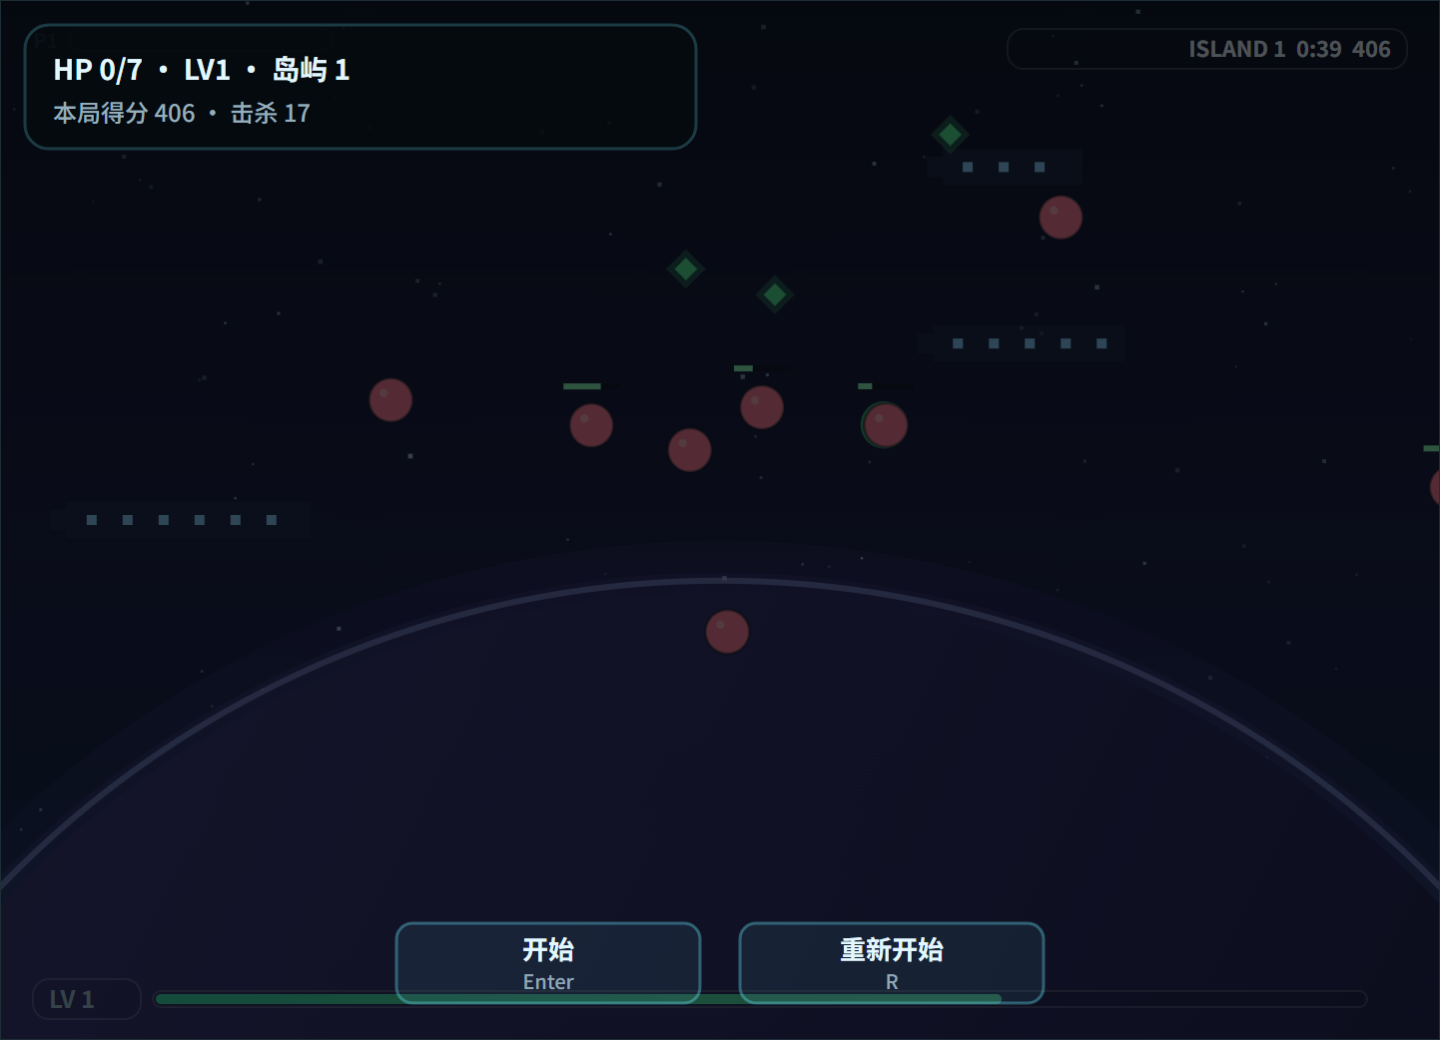
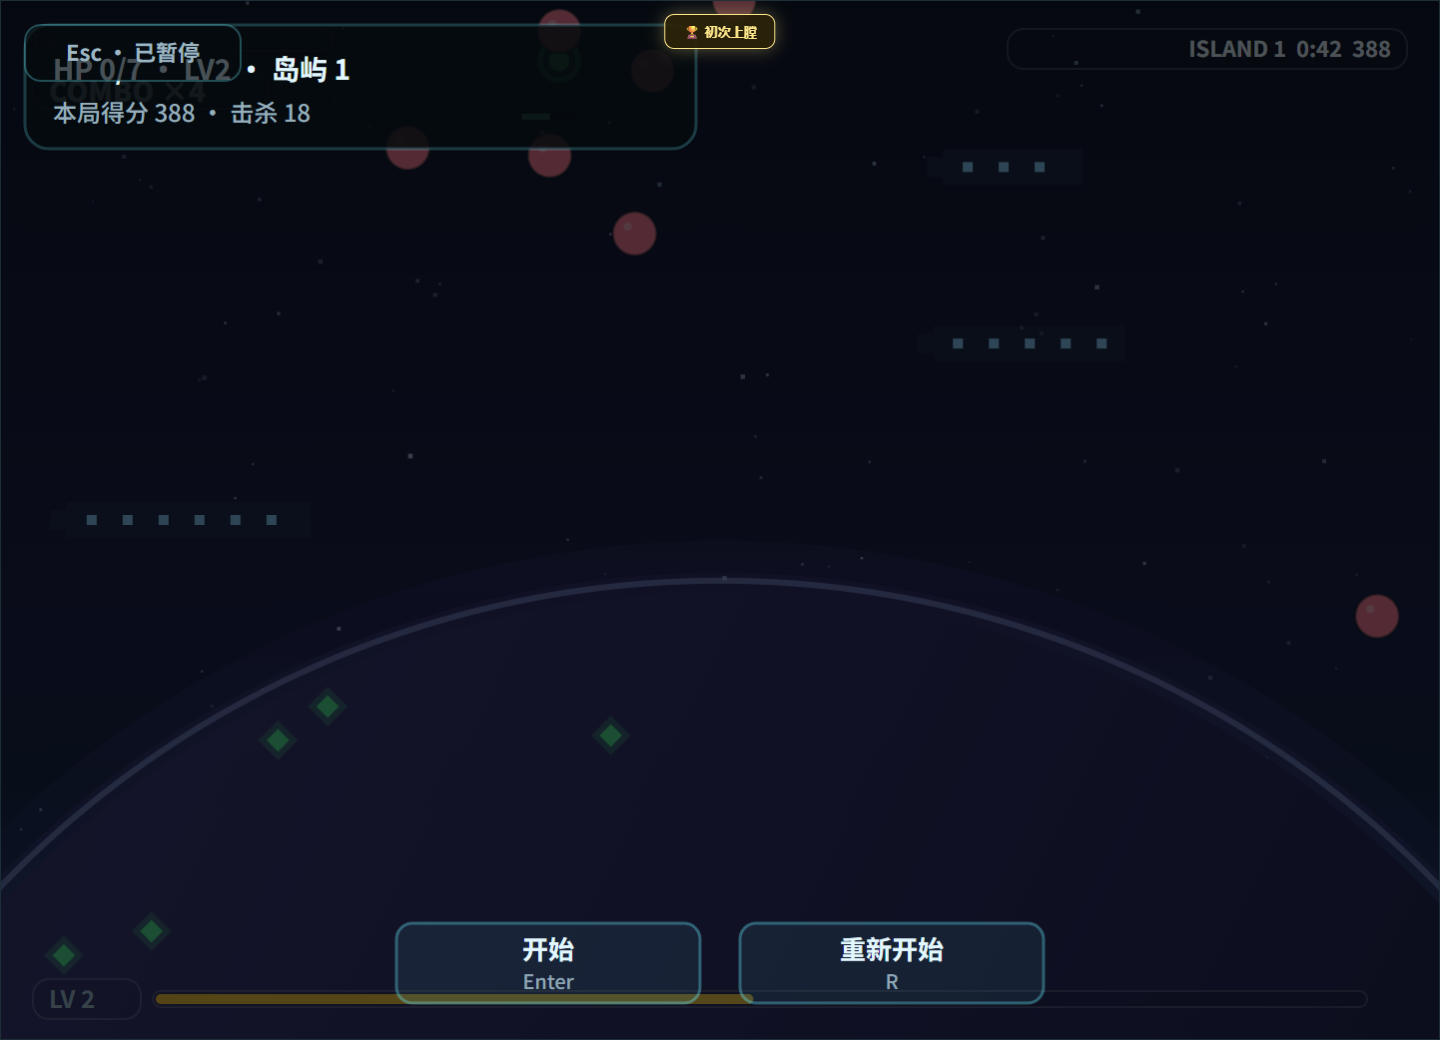
[PRD-0002] fix: R219.9 增补——单人局固定视口(相机钉死画面零滚动),2P+ 保留跟镜头
用户在背景静止后仍感知移动卡顿——根因为 R218 U11 大世界跟镜头的世界滚动
(1P 移动时摄像机拖行,世界实体反向滑动,帧步进在深色背景上读作卡顿)。

修复:1P(players.length<2)固定视口——初始态与 deployPlayers(1) 玩家/相机
钉在 vp 中心;tickSurvival 单人分支相机恒 (vp.w/2,vp.h/2) zoom=1,不
updateCamera/不软推;玩家移动钳视口界;deployPlayers(≥2) 整体迁世界中心
分侧+相机对准世界中心(免开局漂移)。2-4P 合作保留跟镜头+zoom-to-fit。

门禁:typecheck 双绿;全量 154 files/1477 用例 0 失败(初始位置测试锁更新
至新不变量,+1P 固定/2P 跟随两用例);ui:snapshot 重立 9/9 GATE PASS;
CDP:移动 275px 全程 cameraFixed=true+飞船在画+背景双帧一致——1P 零滚动。

diff --git a/src/renderer/src/games/survival.ts b/src/renderer/src/games/survival.ts
@@ -620,7 +620,9 @@ export function initialSurvivalState(
   if (has('glass')) maxHp = 1
   // R213: 先构造 player/keys 再装配 state——players[0]/inputs[0] 与
   // player/keys 字段从出生起就是同一对象引用(别名不变量由构造保证)。
-  const player: PlayerState = { x: WORLD_W / 2, y: WORLD_H / 2, vx: 0, vy: 0, size: 11, hp: maxHp, maxHp, invuln: 0, fireTimer: 0, angle: -Math.PI / 2, hitFlash: 0 }
+  // R219.9: 初始态=1P 固定视口——玩家与相机都在 vp 中心(单人画面零滚动);
+  // 2P+ 部署时由 deployPlayers 迁至世界中心。
+  const player: PlayerState = { x: WIDTH / 2, y: HEIGHT / 2, vx: 0, vy: 0, size: 11, hp: maxHp, maxHp, invuln: 0, fireTimer: 0, angle: -Math.PI / 2, hitFlash: 0 }
   const keys = new Set<string>()
   const state: SurvivalState = {
     phase: 'ready',
@@ -653,7 +655,7 @@ export function initialSurvivalState(
     texts: [],
     ripples: [],
     bgOffset: { x: 0, y: 0 },
-    camera: { x: WORLD_W / 2, y: WORLD_H / 2, zoom: 1 },
+    camera: { x: WIDTH / 2, y: HEIGHT / 2, zoom: 1 },
     juice: emptyJuice(),
     banner: null,
     island: 1,
@@ -728,6 +730,28 @@ function syncRoster(state: SurvivalState): void {
  *  共享 build(升级/轮盘对全员同时生效),仅实体与输入独立。 */
 export function deployPlayers(state: SurvivalState, count: 1 | 2 | 3 | 4): void {
   syncRoster(state)
+  // R219.9: 单人局固定视口——站位基准=vp 中心(相机钉死处);2P+ =世界中心
+  // 分侧站位(初始态在 vp 中心,多人部署须整体迁至世界中心,含相机免开局漂移)。
+  if (count < 2) {
+    for (let i = 0; i < state.players.length; i++) {
+      const off = DEPLOY_OFFSETS[i]
+      state.players[i].x = state.vp.w / 2 + off.dx
+      state.players[i].y = state.vp.h / 2 + off.dy
+    }
+    // 相机一并钉死——否则首帧生成环仍按旧相机在视口角落外生成。
+    state.camera.x = state.vp.w / 2
+    state.camera.y = state.vp.h / 2
+    state.camera.zoom = 1
+  } else {
+    for (let i = 0; i < state.players.length; i++) {
+      const off = DEPLOY_OFFSETS[i]
+      state.players[i].x = WORLD_W / 2 + off.dx
+      state.players[i].y = WORLD_H / 2 + off.dy
+    }
+    state.camera.x = WORLD_W / 2
+    state.camera.y = WORLD_H / 2
+    state.camera.zoom = 1
+  }
   for (let i = state.players.length; i < count; i++) {
     const off = DEPLOY_OFFSETS[i]
     state.players.push({
@@ -1253,6 +1277,11 @@ export function tickSurvival(state: SurvivalState, dt: number): void {
   player.invuln = Math.max(0, player.invuln - dt)
   player.hitFlash = Math.max(0, player.hitFlash - dt)
 
+  // R219.9: 单人局固定视口——玩家钳视口界(相机钉死,画面零滚动);2P+ 大世界界。
+  const fixedViewport = state.players.length < 2
+  const boundMaxX = (fixedViewport ? state.vp.w : WORLD_W) - 16
+  const boundMaxY = (fixedViewport ? state.vp.h : WORLD_H) - 16
+
   const dx = (key(state, 'arrowright') || key(state, 'd') ? 1 : 0) - (key(state, 'arrowleft') || key(state, 'a') ? 1 : 0)
   const dy = (key(state, 'arrowdown') || key(state, 's') ? 1 : 0) - (key(state, 'arrowup') || key(state, 'w') ? 1 : 0)
   let moveX = dx
@@ -1265,8 +1294,8 @@ export function tickSurvival(state: SurvivalState, dt: number): void {
   const moveLen = Math.hypot(moveX, moveY)
   const moveScale = Math.min(1, moveLen)
   if (moveLen > 0.0001) {
-    player.x = clamp(player.x + (moveX / moveLen) * moveScale * stats.moveSpeed * dt, 16, WORLD_W - 16)
-    player.y = clamp(player.y + (moveY / moveLen) * moveScale * stats.moveSpeed * dt, 16, WORLD_H - 16)
+    player.x = clamp(player.x + (moveX / moveLen) * moveScale * stats.moveSpeed * dt, 16, boundMaxX)
+    player.y = clamp(player.y + (moveY / moveLen) * moveScale * stats.moveSpeed * dt, 16, boundMaxY)
     player.angle = Math.atan2(moveY, moveX)
     if (Math.random() < dt * 40) state.particles.push({ x: player.x - Math.cos(player.angle) * 14, y: player.y - Math.sin(player.angle) * 14, vx: -Math.cos(player.angle) * 60, vy: -Math.sin(player.angle) * 60, life: 0.3, maxLife: 0.3, size: 2.5, color: '#67e8f9' })
   }
@@ -1346,8 +1375,8 @@ export function tickSurvival(state: SurvivalState, dt: number): void {
     const lenP = Math.hypot(movePx, movePy)
     const scaleP = Math.min(1, lenP)
     if (lenP > 0.0001) {
-      pl.x = clamp(pl.x + (movePx / lenP) * scaleP * stats.moveSpeed * dt, 16, WORLD_W - 16)
-      pl.y = clamp(pl.y + (movePy / lenP) * scaleP * stats.moveSpeed * dt, 16, WORLD_H - 16)
+      pl.x = clamp(pl.x + (movePx / lenP) * scaleP * stats.moveSpeed * dt, 16, boundMaxX)
+      pl.y = clamp(pl.y + (movePy / lenP) * scaleP * stats.moveSpeed * dt, 16, boundMaxY)
       pl.angle = Math.atan2(movePy, movePx)
       if (Math.random() < dt * 40) state.particles.push({ x: pl.x - Math.cos(pl.angle) * 14, y: pl.y - Math.sin(pl.angle) * 14, vx: -Math.cos(pl.angle) * 60, vy: -Math.sin(pl.angle) * 60, life: 0.3, maxLife: 0.3, size: 2.5, color: ROSTER_ACCENT[pi - 1] })
     }
@@ -1380,11 +1409,20 @@ export function tickSurvival(state: SurvivalState, dt: number): void {
   // zoom-to-fit 2-4P;玩家出屏软约束(向心 120px/s);背景 offset 由摄像机派生
   // (与 U10 质心视差合一:摄像机即平滑后的质心)。
   // R219.7①: 视口读 vp;③ 动态背景停用时 bgOffset 不再随摄像机漂移(恒 0)。
-  updateCamera(state.camera, playersBBox(state.players), state.vp.w, state.vp.h, dt)
-  for (const pl of alivePlayers(state)) {
-    const push = softPushForce(state.camera, state.vp.w, state.vp.h, pl)
-    pl.x += push.x * dt
-    pl.y += push.y * dt
+  // R219.9: 单人局固定视口——相机钉死 vp 中心、无软推(玩家已钳视口界):
+  // 移动时世界不滚动,消除跟镜头滚动在深色背景上的帧步进观感(用户三轮反馈);
+  // 2P+ 合作保留跟镜头+zoom-to-fit(多人同屏必需)。
+  if (fixedViewport) {
+    state.camera.x = state.vp.w / 2
+    state.camera.y = state.vp.h / 2
+    state.camera.zoom = 1
+  } else {
+    updateCamera(state.camera, playersBBox(state.players), state.vp.w, state.vp.h, dt)
+    for (const pl of alivePlayers(state)) {
+      const push = softPushForce(state.camera, state.vp.w, state.vp.h, pl)
+      pl.x += push.x * dt
+      pl.y += push.y * dt
+    }
   }
   if (DYNAMIC_BG_ENABLED) {
     state.bgOffset = smoothOffsetTo(state.bgOffset, {

diff --git a/tests/renderer/games/survival.test.ts b/tests/renderer/games/survival.test.ts
@@ -221,11 +221,13 @@ describe('FR-MP01 swarm local co-op', () => {
     state.player2!.invuln = 0
     state.player2!.fireTimer = 99
     const x0 = state.player2!.x
+    // R219.9: P1 基线在部署后取(初始态 P1 在 vp 中心,多人部署整体迁世界中心)
+    const p1x0 = state.player.x
     state.keys2.add('p2right')
     for (let i = 0; i < 30; i++) tickSurvival(state, 1 / 60)
     expect(state.player2!.x).toBeGreaterThan(x0 + 40)
     // P1 未按任何键,原地不动
-    expect(state.player.x).toBe(initialSurvivalState().player.x)
+    expect(state.player.x).toBe(p1x0)
   })
 
   it('P2 自动索敌开火(共享弹池)', () => {
@@ -811,21 +813,46 @@ describe('R218 U10 background offset (质心 → 归一化 → 平滑)', () => {
     expect(cur.y).toBeCloseTo(-1, 2)
   })
 
-  it('tick 集成(R219.7③ 动态背景停用): 玩家持续右移 → bgOffset 恒 0(不再随摄像机漂移);击杀仍产生涟漪环', () => {
+  it('tick 集成(R219.7③+R219.9): 1P 持续右移 → bgOffset 恒 0+相机钉死 vp 中心+玩家钳视口界;击杀仍产生涟漪环', () => {
     const s = initialSurvivalState()
+    deployPlayers(s, 1)
     s.phase = 'running'
     s.spawnTimer = 99
     s.bossTimer = 99
     s.keys.add('d')
-    for (let i = 0; i < 60; i++) tickSurvival(s, 1 / 60)
+    for (let i = 0; i < 120; i++) tickSurvival(s, 1 / 60)
     // 停用锁:DYNAMIC_BG_ENABLED=false 期间 bgOffset 不推进(移动时背景静止——
     // 用户指令「先停止动态背景」;恢复开关时本断言与 smoothOffsetTo 单测同步改回)。
     expect(s.bgOffset).toEqual({ x: 0, y: 0 })
-    expect(s.camera.x).toBeGreaterThan(900) // 摄像机确实跟随了(停的是背景,不是镜头)
+    // R219.9: 单人固定视口——相机恒 vp 中心(画面零滚动),玩家钳在视口界内
+    expect(s.camera.x).toBe(450)
+    expect(s.camera.y).toBe(260)
+    expect(s.camera.zoom).toBe(1)
+    expect(s.player.x).toBeLessThanOrEqual(s.vp.w - 16)
+    expect(s.player.x).toBeGreaterThan(0)
     s.enemies.push({ id: 9, x: s.player.x + 5, y: s.player.y, vx: 0, vy: 0, size: 11, hp: 0, maxHp: 5, kind: 'chaser', elite: false, hitFlash: 0 })
     tickSurvival(s, 1 / 60)
     expect(s.ripples.length).toBe(1)
     expect(s.ripples[0].life).toBeGreaterThan(0)
+  })
+
+  it('R219.9: 1P 出生在 vp 中心+相机即钉死;2P 保留大世界跟镜头', () => {
+    const one = initialSurvivalState()
+    deployPlayers(one, 1)
+    expect(one.player.x).toBe(450)
+    expect(one.player.y).toBe(260)
+    expect(one.camera).toEqual({ x: 450, y: 260, zoom: 1 })
+
+    const two = initialSurvivalState()
+    deployPlayers(two, 2)
+    two.phase = 'running'
+    two.spawnTimer = 99
+    two.bossTimer = 99
+    // P2 大幅右移拉出包围盒 → 相机必须跟随(固定视口不得泄漏到多人局)
+    two.players[1].x = two.players[0].x + 700
+    for (let i = 0; i < 120; i++) tickSurvival(two, 1 / 60)
+    expect(two.camera.x).toBeGreaterThan(460)
+    expect(two.camera.zoom).toBeLessThanOrEqual(1)
   })
 })
 
@@ -893,12 +920,17 @@ describe('R218 U11 world + camera follow', () => {
     expect(worldToViewport({ x: 900, y: 520, zoom: 0.7 }, 900, 520, 990, 590)).toEqual({ x: 450 + 90 * 0.7, y: 260 + 70 * 0.7 })
   })
 
-  it('deployPlayers 初始位置改世界中心分侧;camera 初始对准世界中心', () => {
+  it('deployPlayers 初始位置改世界中心分侧;camera 初始对准世界中心(R219.9: 初始态=1P vp 中心)', () => {
     const s = initialSurvivalState()
+    // R219.9: 初始(1P 固定视口)——玩家/相机都在 vp 中心
+    expect(s.player.x).toBe(450)
+    expect(s.player.y).toBe(260)
+    expect(s.camera).toEqual({ x: 450, y: 260, zoom: 1 })
+    deployPlayers(s, 2)
+    // 多人部署:整体迁世界中心分侧,相机对准世界中心
     expect(s.player.x).toBe(WORLD_W / 2)
     expect(s.player.y).toBe(WORLD_H / 2)
     expect(s.camera).toEqual({ x: WORLD_W / 2, y: WORLD_H / 2, zoom: 1 })
-    deployPlayers(s, 2)
     expect(s.player2!.x).toBe(WORLD_W / 2 - 60)
     expect(s.player2!.y).toBe(WORLD_H / 2 + 40)
   })

diff --git a/docs/prd/PRD-0002-rgbbox-project-catalog.md b/docs/prd/PRD-0002-rgbbox-project-catalog.md
@@ -3904,3 +3904,5 @@
 - **R219.7 增补（2026-09-30 用户复验三项反馈；状态 ✅ 当日闭环）**：①**fs 真铺满**——R219.2 保留的「等比细边」被用户否决（截图量化：画布 16:9 顶置+底部 ~400px 纯黑带,非对称）。方案：**Survival 可变纵横比**——`SurvivalState` 增 `vp {w,h}`(默认 900×520),引擎内视口尺寸全部改读 vp(摄像机/生成环/预警箭点/HUD 锚点/暗罩);view 层 survival 恒用**高度基准 uniform scale**(scale=canvas.height/520,vp.w=canvas.width/scale),fs/focus 态 CSS 全铺满(100vw×100vh,`data-game='survival'` 限定),backing 随 CSS 盒(撤比例锁,无逐轴下限)→ 任意屏幕比例零黑边(宽屏多看世界/窄屏少看,内容零拉伸);TD/Tetris/Slash 为固定 900×520 棋盘,维持 contain 细边(行业惯例)。②**fs 画布 HUD 按钮条显隐**——运行中(含 levelup/roulette)隐藏「开始/重开」+ **Enter/R 键盘等价同门控**(用户:「游戏开始之后可以隐藏,游戏结束才能显示」;TD 保留「下一波」);窗口态本就由 `.running` 藏 header。③**动态背景停用**(用户指令「先停止动态背景的功能」)——`DYNAMIC_BG_ENABLED=false` 常量:视差 offset 不传(恒 0)、场景时间 t 冻结为按岛定值(星空/漂移/闪烁全静止)、legacy 星空同冻结(STARS 改 0..1 分数适配 vp)、`bgOffset` 平滑停走;恢复=翻常量+改测试锁。附:fullscreenchange 事件同步 React 态+requestFullscreen 拒绝回落专注模式(修伪全屏残留);fs 隐藏清单补 canvas-status/levelup-overlay/swarm-summary(**swarm-roulette 不藏**——轮盘无画布 HUD 等价物,自查发现并修正)。**对抗审查（ultracode 工作流,4 镜头×独立复核,14 agents）**:10 原始发现→7 确认/3 驳回,去重 4 根因全修——`.size-large` 级联压过 fs padding+280px 侧栏轨复活(4 镜头一致命中,fs/focus 终局覆盖块移至全部档位规则之后)、backing 逐轴 LOGICAL 下限破坏同比(800×600 会横向压缩 11%,撤下限)、Enter/R 隐形重开 Slash(同门控)、验证脚本 fsRunningBar 硬编码坐标空间(改走 probe().vp)。**证据**:typecheck 双绿;全量 **154 files/1476 用例 0 失败**(bgOffset 测试锁翻转为「恒 0+摄像机仍跟随」,+vp 默认/宽 vp 飞船居中两用例);`ui:snapshot` 重立 9/9 GATE PASS;CDP(scripts/r219-verify.mjs,9 截图 docs/ui-review/r219/):**4:3 视口(1440×1040) survival fs 画布=视口全等 0 黑边**(backing==CSS)、**size-large 档位下 fs 仍全铺满**(回归锁)、**800×600 小屏 backing 794×594 与 CSS 同比**(无单轴变形)、fs 运行态按钮条 0 亮像素/ready 态 1398(该隐该现)、fs 态移动中背景双帧哈希一致(静止;窗口态采样含实体穿越不适用,以 fs 采样+引擎单测锁为准)、TD fs 1440×832 居中细边、fps 60、飞船移动 269px 后居中+邻域像素在画。
 
 - **R219.8 增补（2026-09-30 用户复验两项反馈；状态 ✅ 2026-10-01 闭环）**：①**持续移动卡顿**——量化取证（scripts/r219-perf.mjs 入库：rAF 逐帧间隔分布+循环分段埋点+实体计数+隐画布对照,交替采样对消漂移）：**游戏循环自身仅 ~0.7ms/帧(tick 0.05+draw 0.6,0-4 敌 3-14 珠)**,卡顿=帧预算被循环外工作挤压后越界掉 vsync(rAF 入口 gap 实测 2.1-12.7ms;画布隐藏归零)+开发机 RDP 软件合成把画布呈现钉在 30Hz(环境天花板,隐藏画布 60Hz 反证)。据此落三项严格减负修复：**(a)游戏画布 `alpha:false` 不透明上下文**(四作每帧整幅绘背景,免整页逐像素混合,弱 GPU 降低呈现反压);**(b)静态背景离屏缓存**(DYNAMIC_BG 冻结后背景逐帧恒定→`drawSurvivalBackground` 导出+view 层按 `场景|岛|backing 尺寸` 键缓存,每帧一次 drawImage blit;boss 压暗拆为运行时叠加);**(c)珠/敌弹 shadowBlur→双层假发光**(模糊通道为画布高成本项)。LED 预览引擎经查已有 R42/R43 视图门控(games 视图跳过),非嫌疑。②**点开始后「缓慢变大的空白视觉」**——R219.7 在 fs 修过的 replaced-element 本征尺寸反馈梯子在窗口态复发(auto+双 max 约束下 backing 本征参与布局,档位跳变逐 RO 拍爬升,每步 canvas.width 重赋值清空位图);窗口态改**定值尺寸** `width:min(100%,calc((100vh-chrome)×900/520))`,CDP 实测开始瞬间画布 813×470→966×558 **一步到位(settledAtIndex=1-2,全程仅 2 种尺寸)**。**证据**:typecheck 双绿;全量 154 files/1476 用例 0 失败;`ui:snapshot` 重立 9/9 GATE PASS;CDP r219-verify 全链复绿(飞船居中+像素在画 98/fs 全铺满 0 黑边/运行态按钮 0 像素/ready 1293/背景双帧一致);rAF 入口 gap 12.7→~1.5ms。**如实保留**:本机为 RDP 软件合成环境,30Hz 呈现天花板不可突破,用户真机(独显/核显)的最终手感待实机确认——若仍有卡顿,后续杠杆=fs 态 dpr 钳 1.5 或渲染减半上采样(需用户反馈后立项)。
+
+- **R219.9 增补（2026-10-01 用户复验「移动时背景移动导致卡顿视觉」；状态 ✅ 当日闭环）**：用户在背景已静止(R219.7③)后仍感知移动卡顿——定位为 **R218 U11 大世界跟镜头带来的世界滚动**:1P 移动时摄像机拖行,全部世界实体相对屏幕反向滑动,帧步进在深色静态背景上读作卡顿。方案:**单人局固定视口**——初始态与 deployPlayers(1) 玩家/相机均钉在 vp 中心(tickSurvival 内 `players.length<2` 分支:相机恒 `(vp.w/2,vp.h/2)` zoom=1,不 updateCamera/不软推),玩家移动钳视口界(16..vp-16;2P+ 仍钳世界界);deployPlayers(≥2) 整体迁世界中心分侧+相机对准世界中心(免开局漂移);spawnRingPoint 沿用视口外环(固定视口下即屏幕边缘,语义不变);**2-4P 合作保留跟镜头+zoom-to-fit**(多人同屏必需,亦是 U11 原始诉求)。**证据**:typecheck 双绿;全量 **154 files/1477 用例 0 失败**(更新两条 R213/U11 时代初始位置测试锁至新不变量,+1P 固定/2P 跟随两用例);`ui:snapshot` 重立 9/9 GATE PASS;CDP r219-verify:**移动 275px 全程 cameraFixed=true(shipVp 175,260 在画内)+背景双帧一致**——1P 画面零滚动,飞船在屏内移动(经典固定竞技场观感)。
